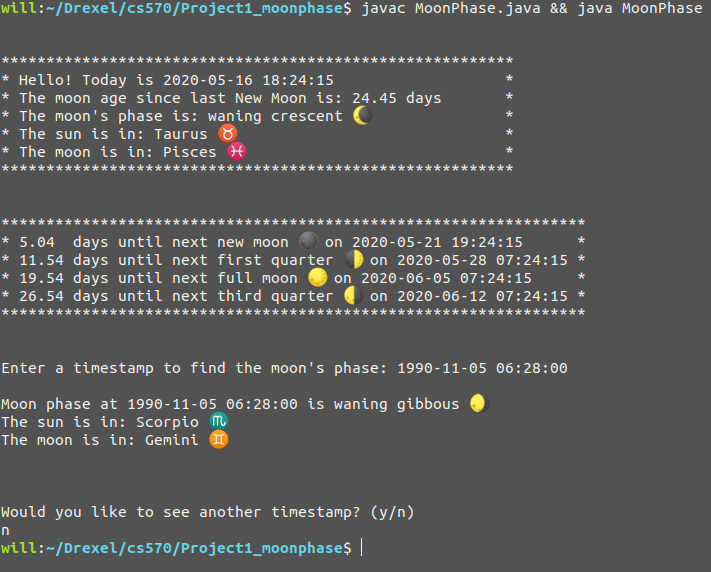
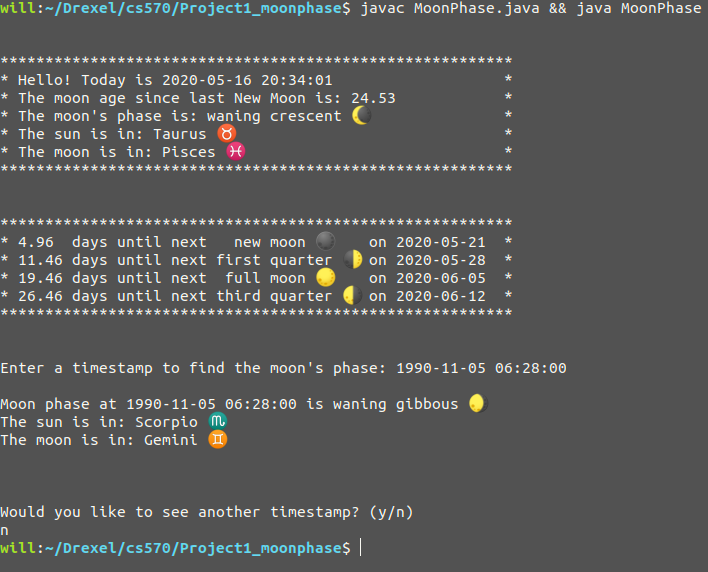
formatted welcome msg

diff --git a/cs570/Project1_moonphase/MoonPhase.java b/cs570/Project1_moonphase/MoonPhase.java
@@ -16,6 +16,8 @@ public class MoonPhase{
 	//************GLOBAL*************
 	private static final DateTimeFormatter dateFormat = DateTimeFormatter.ofPattern("yyyy-MM-dd HH:mm:ss");
 
+	private static final DateTimeFormatter dayFormat = DateTimeFormatter.ofPattern("yyyy-MM-dd");
+
 	//seed for know new moon date/time from /https://www.almanac.com/astronomy/moon/calendar/zipcode/19382/2020-01
 	private static final LocalDateTime dateSeed = LocalDateTime.parse("2020-01-24 16:44:00", dateFormat);
 
@@ -49,6 +51,10 @@ public class MoonPhase{
 		return d.format(dateFormat);
 	}
 
+	public static String formatDay(LocalDateTime d){
+		return d.format(dayFormat);
+	}
+
 	//print welcome method
 	/**
 	* @param d (date) timestamp of type LocalDateTime
@@ -59,11 +65,11 @@ public class MoonPhase{
 		double age = getMoonAge(d);
 
 		System.out.println("*********************************************************");
-		System.out.println("* Hello! Today is " + formatDate(d) + "\t\t\t*");
-		System.out.printf("* The moon age since last New Moon is: %.2f days\t*\n",age);
-		System.out.println("* The moon's phase is: " + getMoonPhase(age)+ "\t\t*");
-		System.out.println("* The sun is in: " + getSunSign(d)+ "\t\t\t\t*");
-		System.out.println("* The moon is in: " + getMoonSign(d)+ "\t\t\t\t*");
+		System.out.printf("%-16s %-19s %19s%n","* Hello! Today is", formatDate(d),"*");
+		System.out.printf("%-38s %-5.2f %12s%n","* The moon age since last New Moon is:",age,"*");
+		System.out.printf("%-22s %-18s %15s%n","* The moon's phase is:",getMoonPhase(age), "*");
+		System.out.printf("%-16s %-13s %25s%n","* The sun is in:", getSunSign(d), "*");
+		System.out.printf("%-17s %-13s %24s%n","* The moon is in:", getMoonSign(d),"*");
 		System.out.println("*********************************************************");
 	}
 
@@ -331,7 +337,7 @@ public class MoonPhase{
 		String theMoonPhase;
 		String continueFlag = "y";
 		boolean isValidInput = false;
-		String [] nextPhaseNames = {"new moon 🌑","first quarter 🌓","full moon 🌕","third quarter 🌗"};
+		String [] nextPhaseNames = {"new moon 🌑   ","first quarter 🌓","full moon 🌕   ","third quarter 🌗"};
 		double [] nextPhaseDays = {daysUntilNextNewMoon(currDate),daysUntilNextFirstQuarterMoon(currDate),daysUntilNextFullMoon(currDate),daysUntilNextThirdQuarterMoon(currDate)};
 		LocalDateTime [] nextPhaseDate = {currDate.plusHours(Math.round(nextPhaseDays[0]*24)),currDate.plusHours(Math.round(nextPhaseDays[1]*24)),currDate.plusHours(Math.round(nextPhaseDays[2]*24)),currDate.plusHours(Math.round(nextPhaseDays[3]*24))};
 
@@ -344,18 +350,19 @@ public class MoonPhase{
 
 		//print welcome message
 		currDate = LocalDateTime.now();
+
 		printWelcome(currDate);
+		System.out.println();
+		System.out.println();		
+
+		System.out.println("*********************************************************");
+		for(int j = 0; j < nextPhaseNames.length;j++){
+			System.out.printf("* %-5.2f %-15s %16s %2s %10s %2s%n",nextPhaseDays[j], "days until next",nextPhaseNames[j],"on",formatDay(nextPhaseDate[j]),"*");
+		}
+		System.out.println("*********************************************************");
 		System.out.println();
 		System.out.println();
 
-		System.out.println("*****************************************************************");
-		for(int i = 0; i < nextPhaseNames.length;i++){
-			System.out.printf("* %.2f\tdays until next %s",nextPhaseDays[i], nextPhaseNames[i]);
-			System.out.println(" on " + formatDate(nextPhaseDate[i])+"\t*");
-		}
-		System.out.println("*****************************************************************");
-		System.out.println();
-		System.out.println();
 		
 		do{
 			isValidInput = false;
